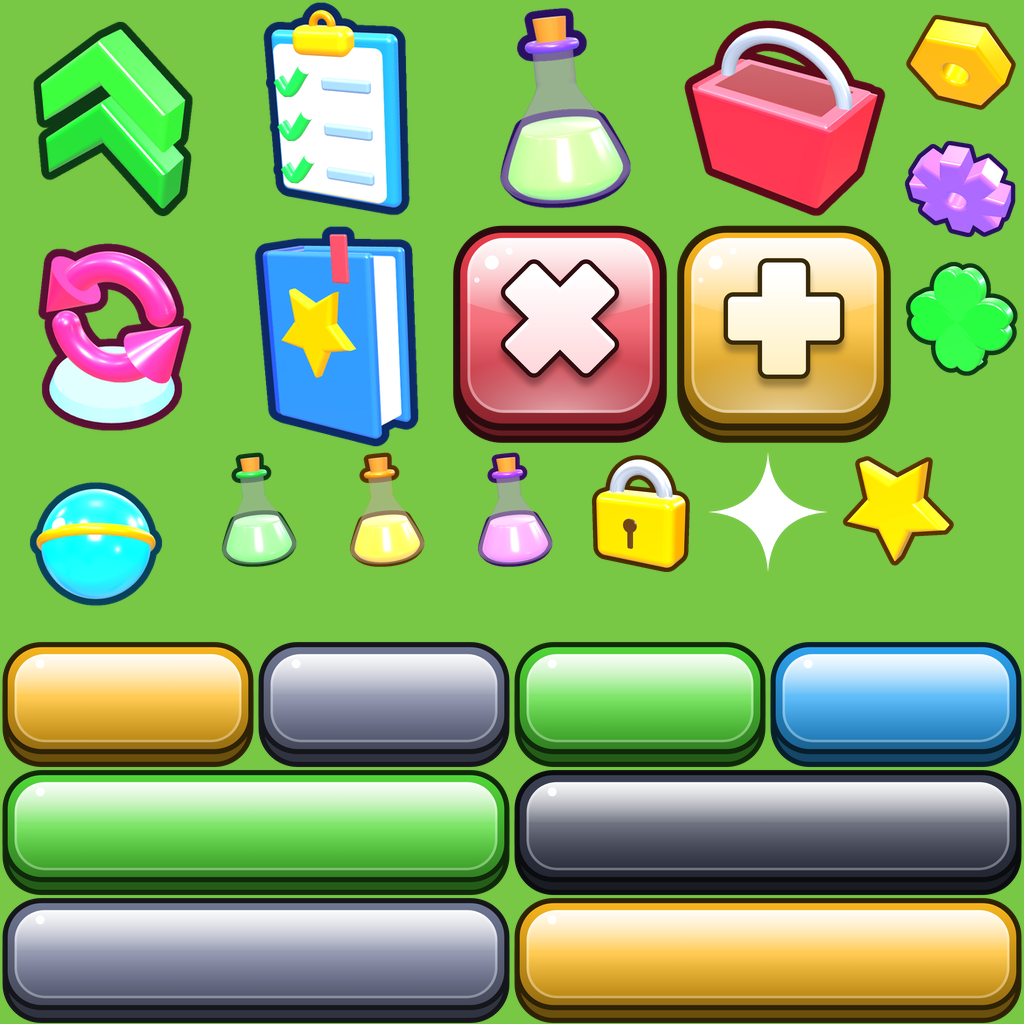
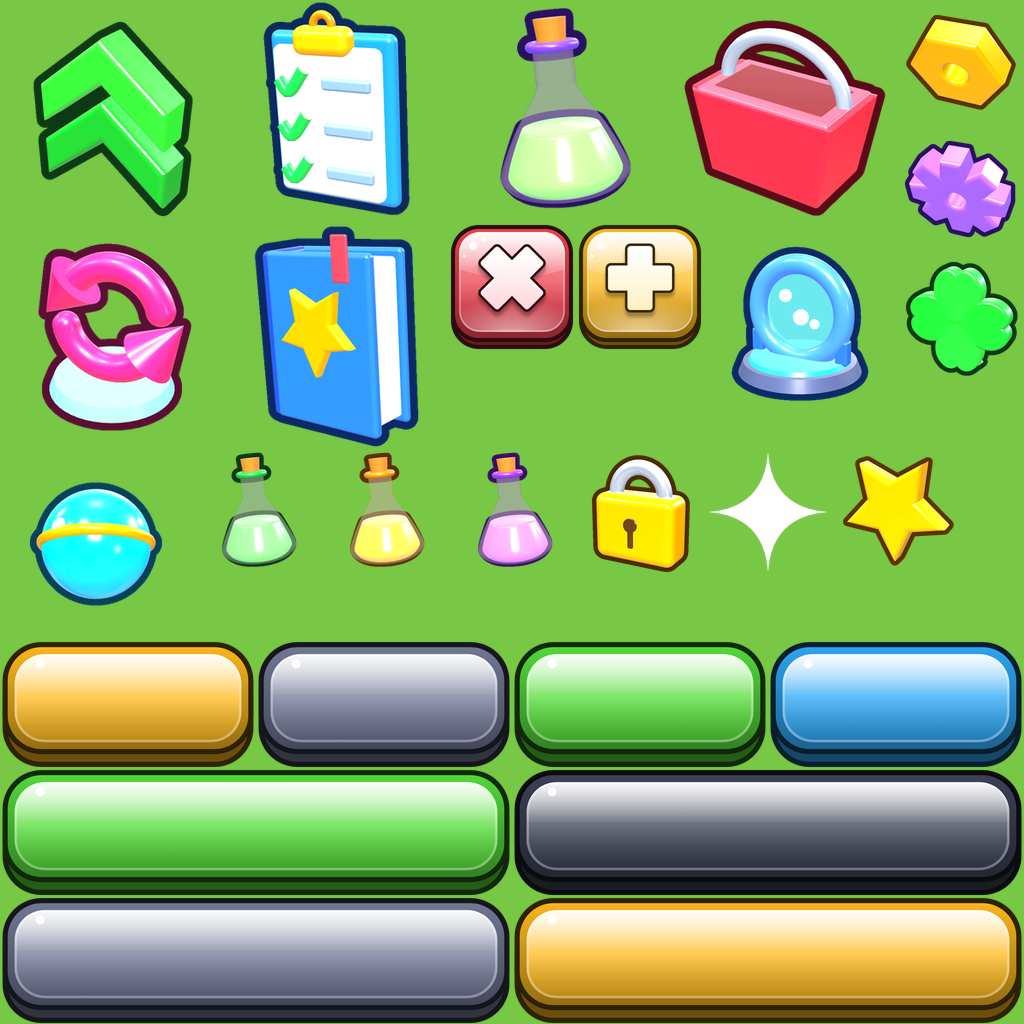
Add Teleport tile and window, limit drop feed to two entries
Claude-Session: https://claude.ai/code/session_017gRZj1D7xuyxdpJXhPYWcz

Changed region(s): [[0.4375, 0.2188, 0.875, 0.4375]]

diff --git a/tools/render3d/icons.html b/tools/render3d/icons.html
@@ -183,6 +183,20 @@ MODELS.star = () => {
 };
 
 
+
+MODELS.teleport = () => {
+  const g = new THREE.Group();
+  g.add(mesh(new THREE.CylinderGeometry(1.15, 1.25, 0.24, 48), mat(0x4a5578, { roughness: 0.5 }), 0, -0.95, 0));
+  g.add(mesh(new THREE.CylinderGeometry(1.0, 1.05, 0.1, 48), mat(0x2fe0d0, { emissive: 0x0aa0a0, emissiveIntensity: 0.6 }), 0, -0.8, 0));
+  const ring = mesh(new THREE.TorusGeometry(0.95, 0.2, 24, 64), mat(0x4f8dff, { roughness: 0.3 }), 0, 0.15, 0);
+  g.add(ring);
+  const disc = mesh(new THREE.CircleGeometry(0.85, 48), new THREE.MeshPhysicalMaterial({ color: 0x66f0ff, emissive: 0x22c8ff, emissiveIntensity: 0.7, roughness: 0.2, side: THREE.DoubleSide, transparent: true, opacity: 0.9 }), 0, 0.15, 0);
+  g.add(disc);
+  for (const [x, y, r] of [[-0.3, 0.45, 0.13], [0.35, -0.05, 0.1], [0.05, 0.05, 0.16]]) g.add(mesh(new THREE.SphereGeometry(r, 16, 16), mat(0xffffff, { emissive: 0xffffff, emissiveIntensity: 0.7 }), x, y, 0.05));
+  for (const s of [-1, 1]) g.add(rbox(0.26, 0.5, 0.26, 0.06, mat(0x2f6ae0), s * 0.95, -0.55, 0));
+  g.rotation.set(0.28, -0.5, 0); return g;
+};
+
 // ---------------------------------------------------------------- Bots (je einer pro Seltenheit), Körper in Seltenheitsfarbe
 const eyes = (g, y, z, sep = 0.28, r = 0.17, col = 0xffffff) => {
   for (const s of [-1, 1]) {

diff --git a/tools/make_ui_atlas.py b/tools/make_ui_atlas.py
@@ -253,8 +253,8 @@ def small_star():
 TILE = 224
 SPRITES = [  # name, x, y, w, h, svg-body(vw,vh)
 ]
-def tile(name, x, y, colour, icon):
-    SPRITES.append((name, x, y, TILE, TILE, svg_wrap(TILE, TILE, 256, 256, tile_body(MID[colour], icon(MID[colour])))))
+def tile(name, x, y, colour, icon, size=TILE):
+    SPRITES.append((name, x, y, size, size, svg_wrap(size, size, 256, 256, tile_body(MID[colour], icon(MID[colour])))))
 def plate(name, x, y, w, h, colour):
     SPRITES.append((name, x, y, w, h, svg_wrap(w, h, w, h, plate_body(w, h, MID[colour]))))
 def small(name, x, y, fn):
@@ -268,6 +268,7 @@ ICONS3D = {
     "shop": (672, 0, 224, "#5a0a18"),
     "rebirth": (0, 224, 224, "#5a0f34"),
     "index": (224, 224, 224, "#0c2a66"),
+    "teleport": (704, 224, 192, "#0c2a66"),
     "nut": (896, 0, 128, "#5a3200"),
     "gear": (896, 128, 128, "#2a1060"),
     "clover": (896, 256, 128, "#0d3a14"),
@@ -284,8 +285,8 @@ BOTS = {
     "bot_drache": "#5a3200", "bot_samurai": "#5a0a18", "bot_satellit": "#5a4a10", "bot_prototyp": "#4a0a5a",
 }
 # --- SVG-Platten und Symbole
-tile("close", 448, 224, "red", ico_close)
-tile("plus", 672, 224, "gold", ico_plus)
+tile("close", 448, 224, "red", ico_close, 128)
+tile("plus", 576, 224, "gold", ico_plus, 128)
 small("glint", 704, 448, small_glint)
 plate("gold2", 0, 640, 256, 128, "gold")
 plate("gray2", 256, 640, 256, 128, "gray")
